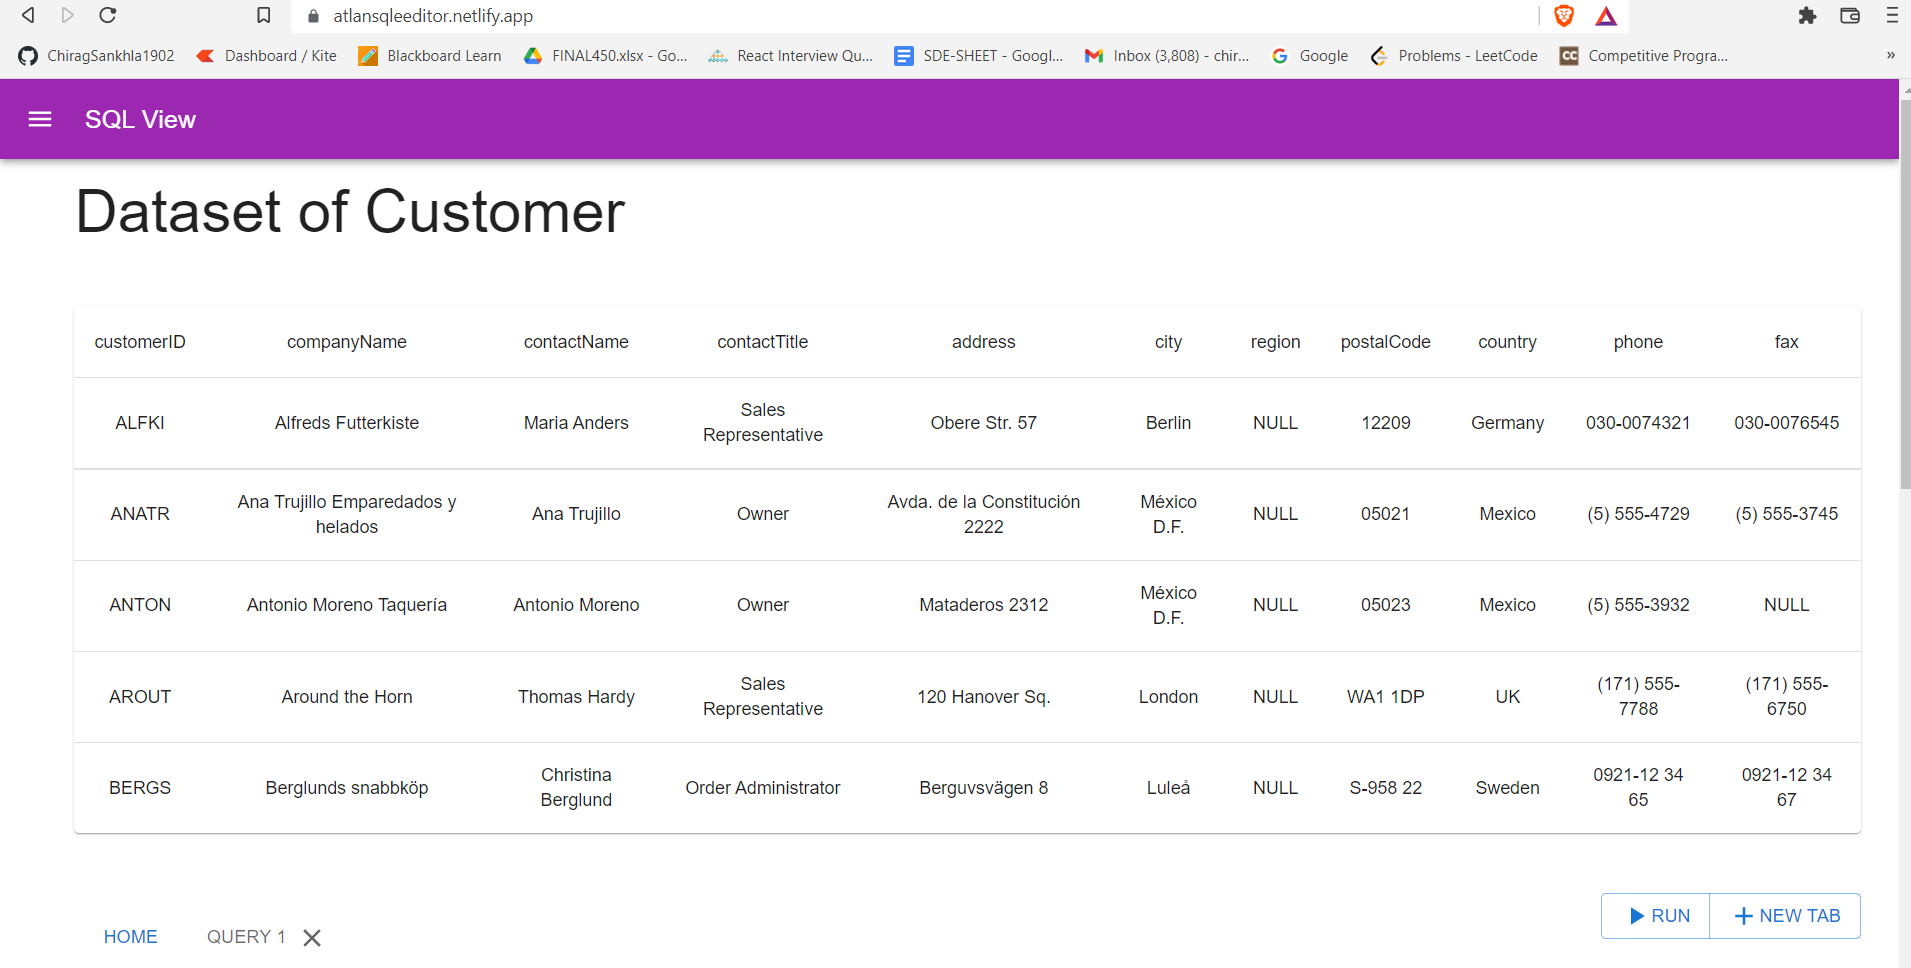
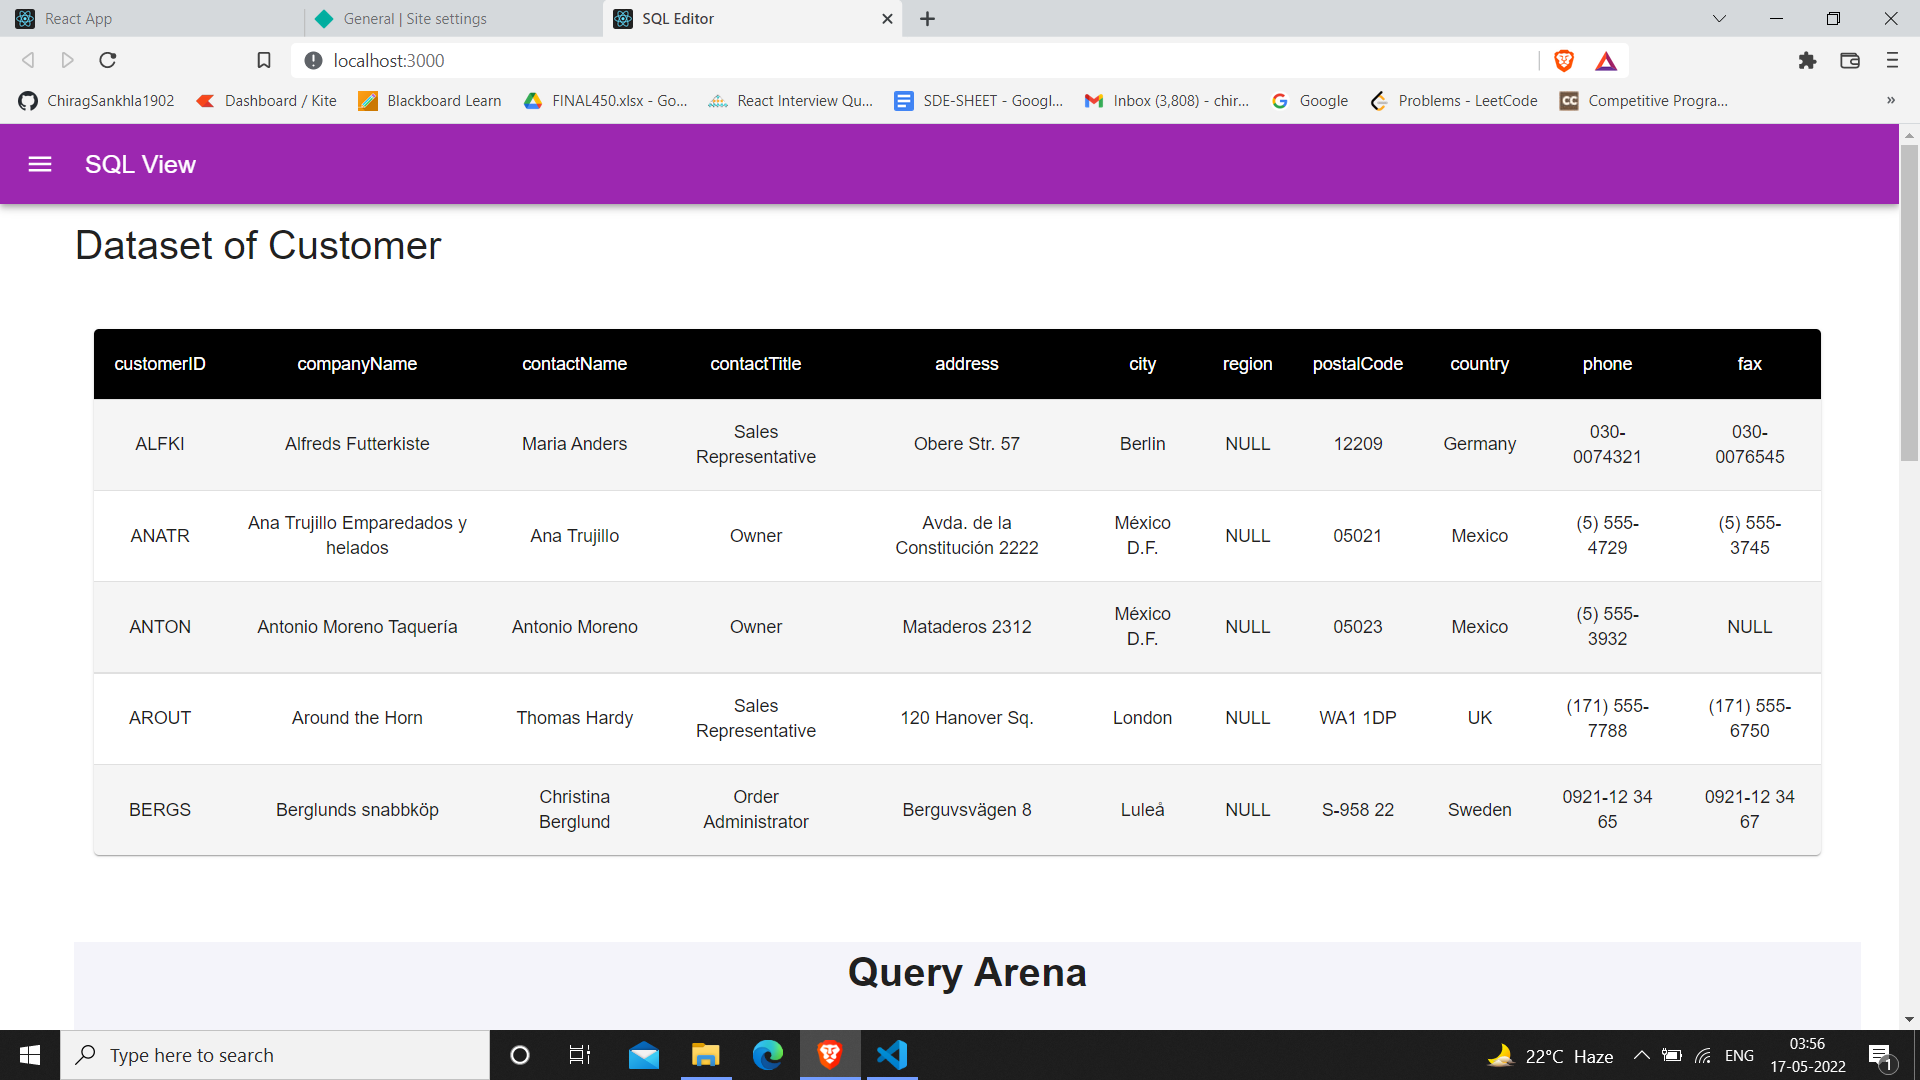
changes

diff --git a/src/Component/BaseTable/BaseTable.js b/src/Component/BaseTable/BaseTable.js
@@ -1,13 +1,33 @@
 import React,{useMemo} from 'react';
 import Table from '@mui/material/Table';
 import TableBody from '@mui/material/TableBody';
-import TableCell from '@mui/material/TableCell';
+import TableCell,{ tableCellClasses } from '@mui/material/TableCell';
 import TableContainer from '@mui/material/TableContainer';
 import TableHead from '@mui/material/TableHead';
 import TableRow from '@mui/material/TableRow';
 import Paper from '@mui/material/Paper';
 import {queryData} from '../../data/data'
+import { styled } from '@mui/material/styles';
 
+const StyledTableCell = styled(TableCell)(({ theme }) => ({
+  [`&.${tableCellClasses.head}`]: {
+    backgroundColor: theme.palette.common.black,
+    color: theme.palette.common.white,
+  },
+  [`&.${tableCellClasses.body}`]: {
+    fontSize: 14,
+  },
+}));
+
+const StyledTableRow = styled(TableRow)(({ theme }) => ({
+  '&:nth-of-type(odd)': {
+    backgroundColor: theme.palette.action.hover,
+  },
+  // hide last border
+  '&:last-child td, &:last-child th': {
+    border: 0,
+  },
+}));
 
 export default function BasicTable({query1}) {
   const query =query1
@@ -22,14 +42,15 @@ export default function BasicTable({query1}) {
 
 
   return (
+    <div  >
     <TableContainer component={Paper}>
-      <Table sx={{ minWidth: 340 }} aria-label="simple table">
+      <Table sx={{ minWidth: 650, overflow:'scroll' }} aria-label="simple table">
         <TableHead>
           <TableRow>
             {
               col.map((c,index)=>{
                 return(
-                  <TableCell key={index} align="center">{c}</TableCell>
+                  <StyledTableCell key={index} align="center">{c}</StyledTableCell>
                 )
               })
             }
@@ -38,21 +59,22 @@ export default function BasicTable({query1}) {
         <TableBody>
           {row.map((row,index) => (
           
-            <TableRow
+            <StyledTableRow
               key={index}
               sx={{ '&:last-child td, &:last-child th': { border: 0 } }}
             >
             {
               Object.keys(row).map((r,index)=>{
                 return(
-                  <TableCell key={index} align="center">{row[r]}</TableCell>
+                  <StyledTableCell key={index} align="center">{row[r]}</StyledTableCell>
                 )
               })
             }
-            </TableRow>
+            </StyledTableRow>
           ))}
         </TableBody>
       </Table>
     </TableContainer>
+    </div>
   );
 }

diff --git a/src/App.js b/src/App.js
@@ -31,17 +31,20 @@ function App() {
         <br/>
         <br/>
         <Grid item>
-          <Typography variant='h3'> Dataset of {TableName[ActiveTable]}</Typography>
+          <Typography variant='h3' fontSize='2rem'> Dataset of {TableName[ActiveTable]}</Typography>
         </Grid>
         <br/>
         <br/>
-        <Grid item lg={12} md={12} sm={4}>
-          <BasicTable query1={queries[ActiveTable]} />
+        <Grid item lg={10} md={10} ml={2} mr={4} sm={4}>
+          <div ><BasicTable query1={queries[ActiveTable]} /> </div>
         </Grid>
         <br/>
         <br/>
         <Grid item lg={10} md={10} sm={4} >
+          <div style={{backgroundColor:'#f4f4fa'}}>
+          <div style={{textAlign:'center'}}><h1>Query Arena</h1></div>
           <Tabs defaultQuery={queries[ActiveTable]}/>
+          </div>
         </Grid>
       </Grid>
 

diff --git a/src/Component/Tabs/Tabs.js b/src/Component/Tabs/Tabs.js
@@ -70,7 +70,7 @@ export default function BasicTabs({defaultQuery}) {
   
   return (
     <Box sx={{ width: '100%' }}>
-      <Box sx={{ borderBottom: 1, borderColor: 'divider',display:'flex',flexDirection:'row',justifyContent:'space-between',alignItems:'flex-start' }}>
+      <Box sx={{ borderBottom: 1, borderColor: 'divider',display:'flex',flexDirection:'row',justifyContent:'space-between',alignItems:'center',marginRight:'2%' }}>
         <Tabs value={value} onChange={handleChange} aria-label="basic tabs example">
           <Tab label="Home"  />
           <Tab label="Query 1" icon={ <CloseIcon onClick={handleCancel}/>} iconPosition="end"  />

diff --git a/public/index.html b/public/index.html
@@ -24,7 +24,7 @@
       work correctly both with client-side routing and a non-root public URL.
       Learn how to configure a non-root public URL by running `npm run build`.
     -->
-    <title>React App</title>
+    <title>SQL Editor</title>
   </head>
   <body>
     <noscript>You need to enable JavaScript to run this app.</noscript>

diff --git a/src/App.css b/src/App.css
@@ -1,6 +1,5 @@
 body{
-  padding:0;
-  margin:0;
+  overflow-x: hidden;
 }
 .App{
   display:flex;
